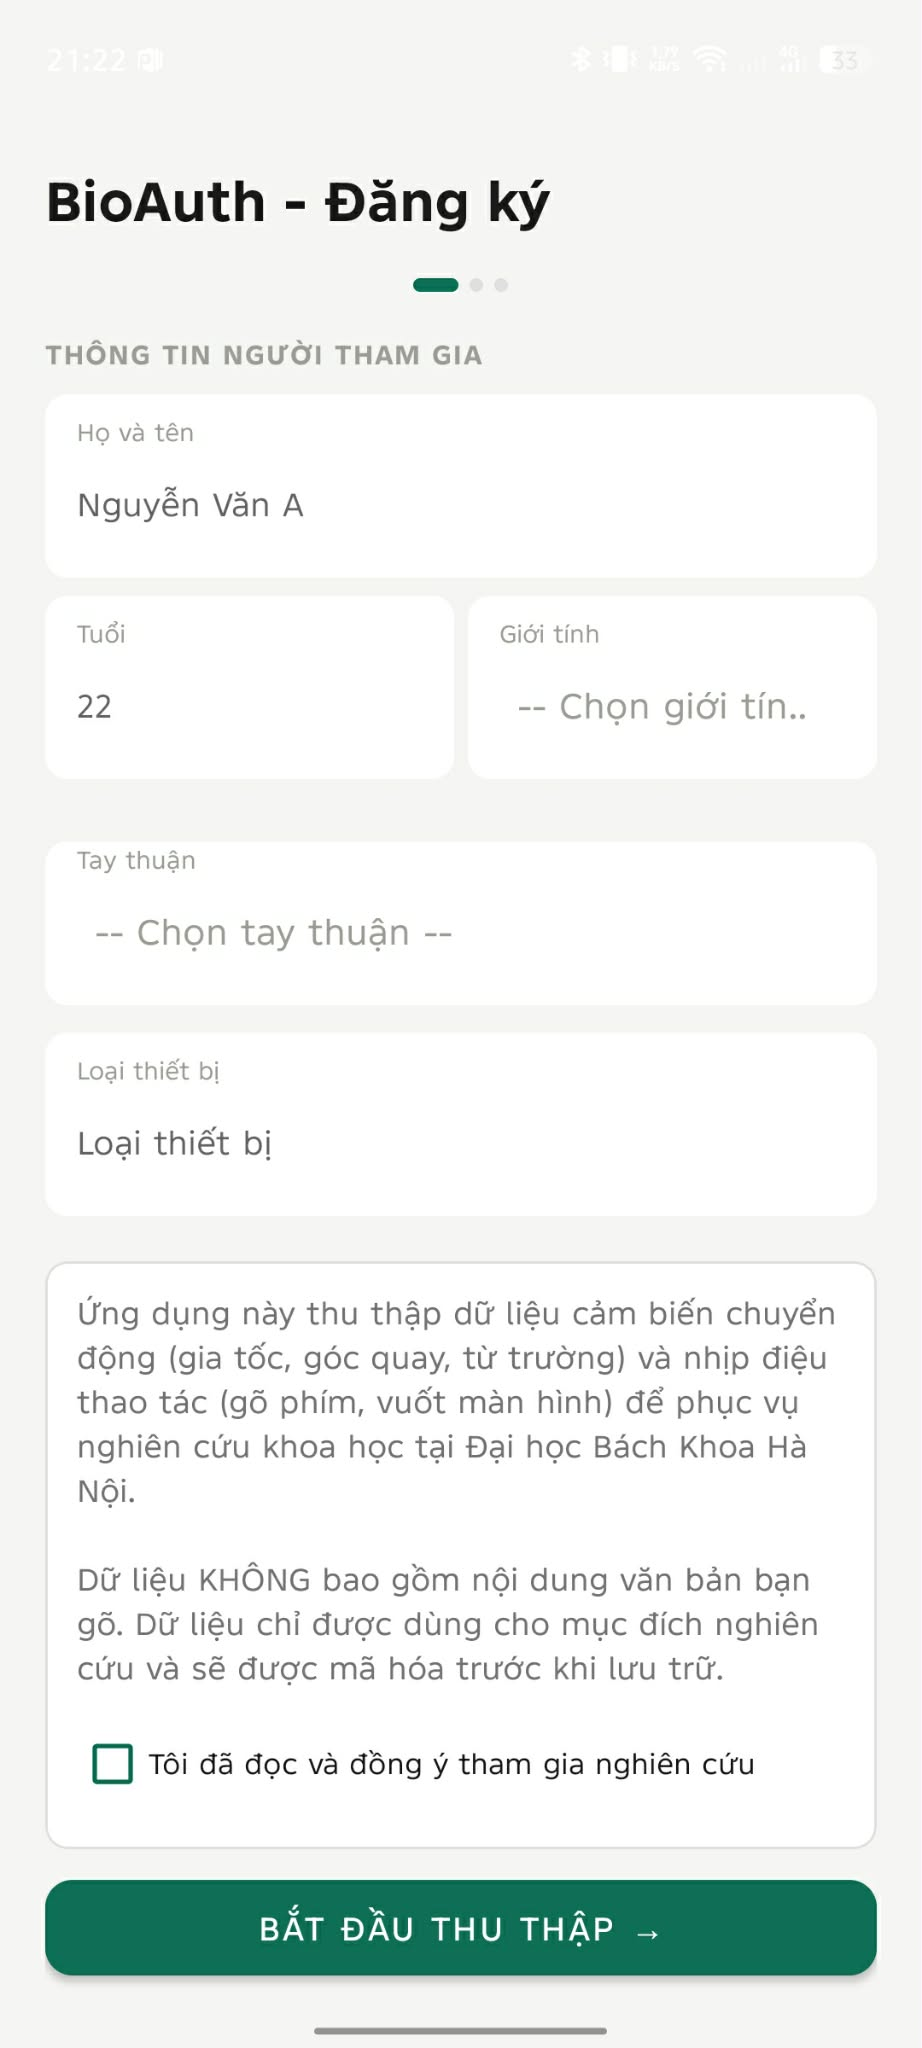
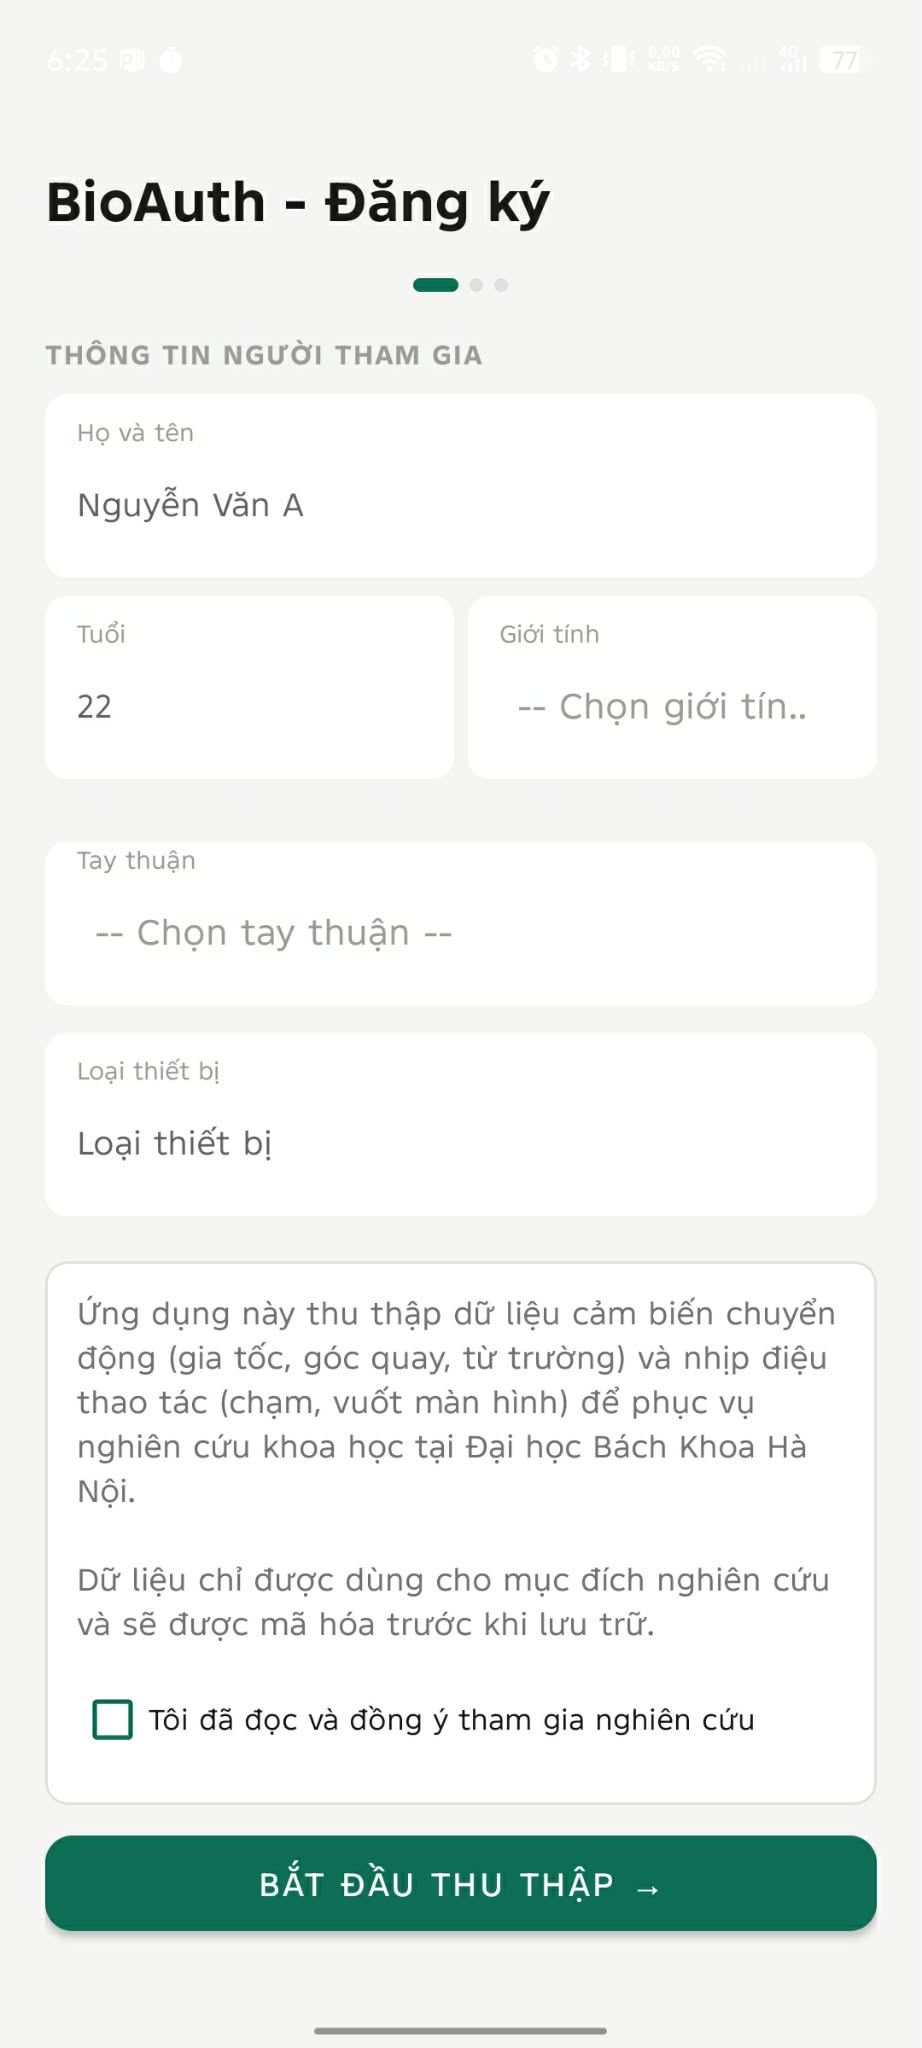
update data

Changed region(s): [[0.0304, 0.75, 0.9718, 0.9688], [0.2733, 0.6562, 0.7592, 0.6875]]

diff --git a/docs/report/DATN/Chuong/2_Co_so_ly_thuyet.tex b/docs/report/DATN/Chuong/2_Co_so_ly_thuyet.tex
@@ -139,7 +139,7 @@ Khi hệ thống phát hiện dấu hiệu của người lạ, thay vì chỉ k
 
 Nhiều hệ thống xác thực sinh trắc học hiện nay phụ thuộc vào việc gửi dữ liệu hành vi lên máy chủ để suy luận, gây tốn băng thông, tăng độ trễ và đe dọa quyền riêng tư người dùng. Đề tài giải quyết vấn đề này thông qua framework TensorFlow Lite (TFLite), cho phép thực thi mô hình trực tiếp trên phần cứng cục bộ của thiết bị Android, nhờ đó dữ liệu hành vi không rời khỏi thiết bị và hệ thống vẫn hoạt động khi không có kết nối mạng.
 
-TFLite cung cấp một định dạng mô hình gọn nhẹ cùng trình thông dịch được tối ưu cho thiết bị di động, đồng thời hỗ trợ các kỹ thuật nén như lượng tử hóa trọng số nhằm giảm dung lượng và tăng tốc độ suy luận. Trong đề tài, do bộ mã hóa được sử dụng có quy mô nhỏ, mô hình được giữ ở độ chính xác dấu phẩy động 32 bit để bảo toàn chất lượng embedding phục vụ bước đối sánh tương đồng, thay vì lượng tử hóa xuống số nguyên; chi tiết về lựa chọn này được trình bày ở Chương 4. Cách triển khai trên thiết bị như vậy đáp ứng các yêu cầu về quyền riêng tư, độ trễ và tiêu thụ pin cho một ứng dụng xác thực chạy nền liên tục.
+TFLite cung cấp một định dạng mô hình gọn nhẹ cùng trình thông dịch được tối ưu cho thiết bị di động, đồng thời hỗ trợ các kỹ thuật nén như lượng tử hóa trọng số nhằm giảm dung lượng và tăng tốc độ suy luận. Trong đề tài, do bộ mã hóa được sử dụng có quy mô nhỏ, mô hình được giữ ở độ chính xác dấu phẩy động 32 bit để bảo toàn chất lượng embedding phục vụ bước đối sánh tương đồng thay vì lượng tử hóa xuống số nguyên; chi tiết về lựa chọn này được trình bày ở Chương 4. Cách triển khai trên thiết bị như vậy đáp ứng các yêu cầu về quyền riêng tư, độ trễ và tiêu thụ pin cho một ứng dụng xác thực chạy nền liên tục.
 
 Chương này đã trình bày nền tảng lý thuyết và tổng quan công trình liên quan làm cơ sở cho hệ thống đề xuất. Phân tích bốn công trình tham chiếu cho thấy khoảng trống rõ ràng về việc tích hợp đầy đủ xác thực đa phương thức, nhận dạng tập mở và cơ chế xác thực dự phòng trong một hệ thống hoàn chỉnh. Chương 3 tiếp theo sẽ trình bày chi tiết quá trình thu thập dữ liệu và pipeline tiền xử lý làm đầu vào cho hệ thống huấn luyện mô hình.
 

diff --git a/docs/report/DATN/DoAn.tex b/docs/report/DATN/DoAn.tex
@@ -183,11 +183,6 @@
 \pagenumbering{gobble} % Xóa page numbering ở cuối trang
 \subfile{Chuong/0_3_Tom_tat_noi_dung.tex}
 
-% \pagestyle{empty} % Header và footer rỗng
-\newpage
-\pagenumbering{gobble} % Xóa page numbering ở cuối trang
-\subfile{Chuong/0_4_Tom_tat_noi_dung_eng.tex}
-
 % ===================================================
 % \pagestyle{empty} % Header và footer rỗng
 \newpage

diff --git a/ml_pipeline/step1_quality_check.py b/ml_pipeline/step1_quality_check.py
@@ -23,11 +23,6 @@ TOUCH_TARGET = {
     'scroll':    600,
 }
 
-OUTLIER_RATIO_THRESH = 3.0
-MIN_SESSIONS_FOR_Z   = 4
-MAD_MIN              = 1e-6
-TOP_K_COLS           = 5
-
 
 def fmt_time(sec: float) -> str:
     """Định dạng giây thành 'MpSSs', vd 19.5 → '0p19s'."""
